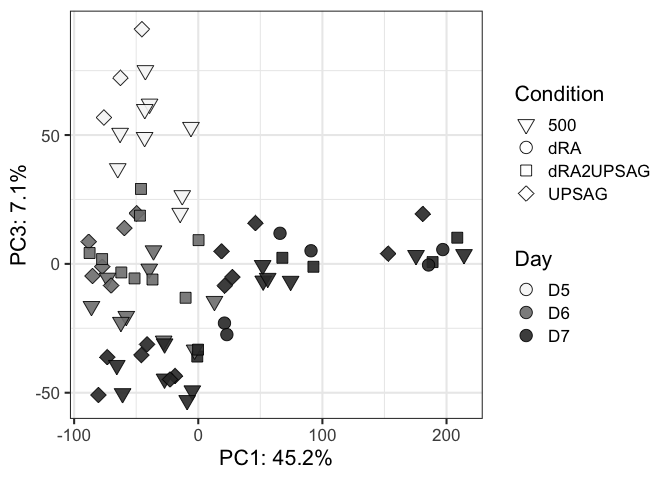
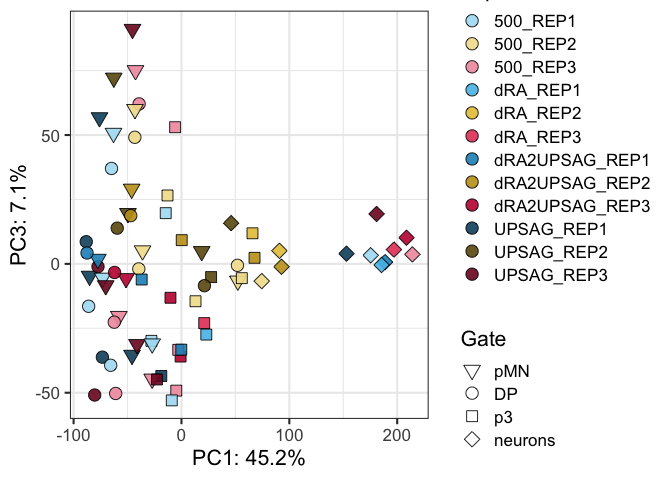
PCA ATAC more plots

diff --git a/r_files/DPCaTSATAC_1_PCA.md b/r_files/DPCaTSATAC_1_PCA.md
@@ -111,9 +111,6 @@ colors_conditions <- c("#e67300","#4d9a00","#cdcd00","#0073e6")
 
 ## Differential analysis
 
-This normalization includes ERCC. I use it later samples don’t cluster
-in any special way just with ERCC correlations.
-
 ``` r
 count.matrix <- count.table %>%
   column_to_rownames("Geneid")
@@ -294,8 +291,8 @@ ggplot(vsd_pca_plot, aes(x=PC1,y=PC2,fill=DayCondition,shape=Gate)) +
 ![](DPCaTSATAC_1_PCA_files/figure-gfm/unnamed-chunk-9-6.png)<!-- -->
 
 ``` r
-ggplot(vsd_pca_plot, aes(x=PC1,y=PC2,fill=Gate,shape=Rep)) +
-  scale_fill_manual(values = color_gates) +
+ggplot(vsd_pca_plot, aes(x=PC1,y=PC2,fill=Rep,shape=Gate)) +
+  #scale_fill_manual(values = color_gates) +
   geom_point(size=4, alpha=0.9) +
   guides(fill = guide_legend(override.aes=list(shape=21))) +
   scale_shape_manual(values = shapes4_fill_manual) +
@@ -307,8 +304,12 @@ ggplot(vsd_pca_plot, aes(x=PC1,y=PC2,fill=Gate,shape=Rep)) +
 ![](DPCaTSATAC_1_PCA_files/figure-gfm/unnamed-chunk-9-7.png)<!-- -->
 
 ``` r
+colorIZ <- c("#abdff4","#f1df9a","#f19aac",
+             "#55bee8","#e6c444","#e64466",
+            "#1a91c1","#c19e1a","#c11a3d",
+            "#0e506b","#6b570e","#7c1127")
 ggplot(vsd_pca_plot, aes(x=PC1,y=PC2,fill=Experiment,shape=Gate)) +
-  #scale_fill_manual(values = color_gates) +
+  scale_fill_manual(values = colorIZ) +
   geom_point(size=4, alpha=0.9) +
   guides(fill = guide_legend(override.aes=list(shape=21))) +
   scale_shape_manual(values = shapes4_fill_manual) +
@@ -318,6 +319,19 @@ ggplot(vsd_pca_plot, aes(x=PC1,y=PC2,fill=Experiment,shape=Gate)) +
 ```
 
 ![](DPCaTSATAC_1_PCA_files/figure-gfm/unnamed-chunk-9-8.png)<!-- -->
+
+``` r
+ggplot(vsd_pca_plot, aes(x=PC1,y=PC2,fill=Experiment,shape=Day)) +
+  scale_fill_manual(values = colorIZ) +
+  geom_point(size=4, alpha=0.9) +
+  guides(fill = guide_legend(override.aes=list(shape=21))) +
+  scale_shape_manual(values = shapes4_fill_manual) +
+  labs(x=paste0("PC1: ",round(var_explained[1]*100,1),"%"),
+       y=paste0("PC2: ",round(var_explained[2]*100,1),"%")) +
+  theme_bw(base_size=16)
+```
+
+![](DPCaTSATAC_1_PCA_files/figure-gfm/unnamed-chunk-9-9.png)<!-- -->
 
 ## Plot more components
 
@@ -334,21 +348,21 @@ ggplot(vsd_pca_plot, aes(x=PC1,y=PC2,fill=Gate,shape=Condition)) +
 ![](DPCaTSATAC_1_PCA_files/figure-gfm/unnamed-chunk-10-1.png)<!-- -->
 
 ``` r
-ggplot(vsd_pca_plot, aes(x=PC1,y=PC3,fill=Gate,shape=Condition)) +
-  scale_fill_manual(values = color_gates) +
+ggplot(vsd_pca_plot, aes(x=PC1,y=PC2,fill=Experiment,shape=Gate)) +
+  scale_fill_manual(values = colorIZ) +
   geom_point(size=4, alpha=0.9) +
   guides(fill = guide_legend(override.aes=list(shape=21))) +
-  scale_shape_manual(values = shapes5_manual) +
+  scale_shape_manual(values = shapes4_fill_manual) +
   labs(x=paste0("PC1: ",round(var_explained[1]*100,1),"%"),
-       y=paste0("PC3: ",round(var_explained[3]*100,1),"%")) +
+       y=paste0("PC2: ",round(var_explained[2]*100,1),"%")) +
   theme_bw(base_size=16)
 ```
 
 ![](DPCaTSATAC_1_PCA_files/figure-gfm/unnamed-chunk-10-2.png)<!-- -->
 
 ``` r
-ggplot(vsd_pca_plot, aes(x=PC1,y=PC3,fill=Day,shape=Condition)) +
-  scale_fill_manual(values = colors_greys) +
+ggplot(vsd_pca_plot, aes(x=PC1,y=PC3,fill=Experiment,shape=Gate)) +
+  scale_fill_manual(values = colorIZ) +
   geom_point(size=4, alpha=0.9) +
   guides(fill = guide_legend(override.aes=list(shape=21))) +
   scale_shape_manual(values = shapes5_manual) +
@@ -360,8 +374,17 @@ ggplot(vsd_pca_plot, aes(x=PC1,y=PC3,fill=Day,shape=Condition)) +
 ![](DPCaTSATAC_1_PCA_files/figure-gfm/unnamed-chunk-10-3.png)<!-- -->
 
 ``` r
-ggplot(vsd_pca_plot, aes(x=PC2,y=PC3,fill=Gate,shape=Condition)) +
-  scale_fill_manual(values = color_gates) +
+# ggplot(vsd_pca_plot, aes(x=PC1,y=PC3,fill=Day,shape=Condition)) +
+#   scale_fill_manual(values = colors_greys) +
+#   geom_point(size=4, alpha=0.9) +
+#   guides(fill = guide_legend(override.aes=list(shape=21))) +
+#   scale_shape_manual(values = shapes5_manual) +
+#   labs(x=paste0("PC1: ",round(var_explained[1]*100,1),"%"),
+#        y=paste0("PC3: ",round(var_explained[3]*100,1),"%")) +
+#   theme_bw(base_size=16)
+
+ggplot(vsd_pca_plot, aes(x=PC2,y=PC3,fill=Experiment,shape=Gate)) +
+  scale_fill_manual(values = colorIZ) +
   geom_point(size=4, alpha=0.9) +
   guides(fill = guide_legend(override.aes=list(shape=21))) +
   scale_shape_manual(values = shapes5_manual) +
@@ -373,9 +396,10 @@ ggplot(vsd_pca_plot, aes(x=PC2,y=PC3,fill=Gate,shape=Condition)) +
 ![](DPCaTSATAC_1_PCA_files/figure-gfm/unnamed-chunk-10-4.png)<!-- -->
 
 ``` r
-ggplot(vsd_pca_plot, aes(x=PC1,y=PC3,fill=Rep,shape=Gate, label=Condition)) +
+ggplot(vsd_pca_plot, aes(x=PC1,y=PC3,fill=Experiment,shape=Gate, label=Rep)) +
+  scale_fill_manual(values = colorIZ) +
   geom_point(size=4, alpha=0.9) +
-  geom_text(nudge_x = 5) +
+  geom_text(nudge_x = 15) +
   guides(fill = guide_legend(override.aes=list(shape=21))) +
   scale_shape_manual(values = shapes4_fill_manual) +
   labs(x=paste0("PC1: ",round(var_explained[1]*100,1),"%"),
@@ -386,8 +410,8 @@ ggplot(vsd_pca_plot, aes(x=PC1,y=PC3,fill=Rep,shape=Gate, label=Condition)) +
 ![](DPCaTSATAC_1_PCA_files/figure-gfm/unnamed-chunk-10-5.png)<!-- -->
 
 ``` r
-ggplot(vsd_pca_plot, aes(x=PC4,y=PC2,fill=Condition,shape=Day)) +
-  #scale_fill_manual(values = colorIZ) +
+ggplot(vsd_pca_plot, aes(x=PC4,y=PC2,fill=Gate,shape=Day)) +
+  scale_fill_manual(values = color_gates) +
   geom_point(size=4, alpha=0.9) +
   guides(fill = guide_legend(override.aes=list(shape=21))) +
   scale_shape_manual(values = shapes5_manual) +
@@ -399,9 +423,9 @@ ggplot(vsd_pca_plot, aes(x=PC4,y=PC2,fill=Condition,shape=Day)) +
 ![](DPCaTSATAC_1_PCA_files/figure-gfm/unnamed-chunk-10-6.png)<!-- -->
 
 ``` r
-ggplot(vsd_pca_plot, aes(x=PC4,y=PC5,fill=DayCondition,shape=Gate, label=Gate)) +
+ggplot(vsd_pca_plot, aes(x=PC4,y=PC5,fill=Condition,shape=Day)) +
+  #scale_fill_manual(values = color_gates) +
   geom_point(size=4, alpha=0.9) +
-  geom_text(nudge_x = 5) +
   guides(fill = guide_legend(override.aes=list(shape=21))) +
   scale_shape_manual(values = shapes4_fill_manual) +
   labs(x=paste0("PC4: ",round(var_explained[4]*100,1),"%"),
